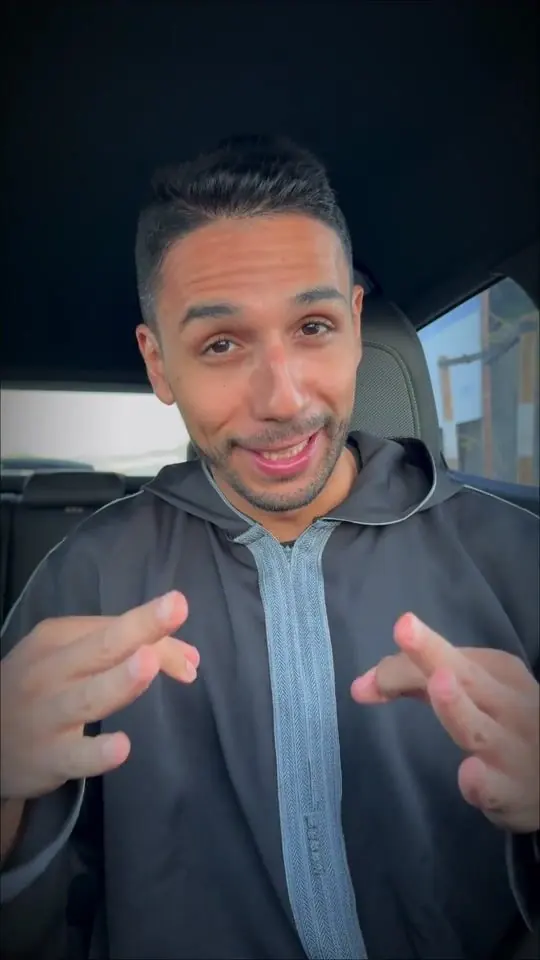
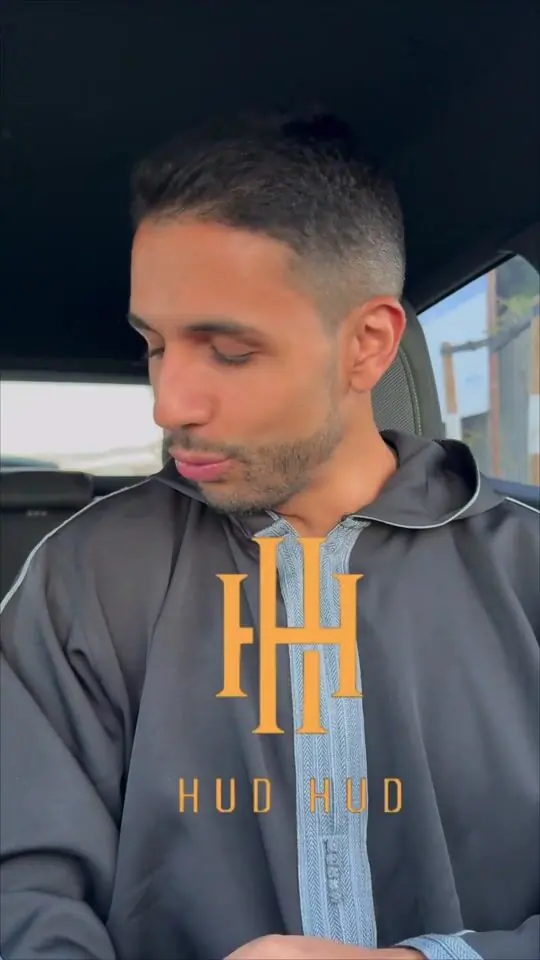
Arabic clothing video (Mohamed, clothing-2): owner-chosen thumbnail frame at 19.2 s

diff --git a/src/content/posterFrames.js b/src/content/posterFrames.js
@@ -28,7 +28,7 @@ export const POSTER_FRAMES = {
   '0241249ccf242630f097d03ac8cc11b9': 14.5, // portfolio:ar-ugc-7 [ar]
   '002d9dab913f13496e6513e4a7761ec9': 35.9, // portfolio:ar-ugc-8 [ar] // owner-chosen frame 2026-11-25 (Videos Placement folder screenshot)
   '583c9f5132d0cfe0f2eb26ea1df73446': 7.0, // portfolio:ar-ugc-9 [ar] // owner-chosen frame 2026-11-25 (Videos Placement folder screenshot)
-  '573acd81f098fb29bf4145d3dd1463a4': 2.6, // portfolio:ar-mohamed-clothing-2 [ar]: face centred, eyes open, no caption in the way
+  '573acd81f098fb29bf4145d3dd1463a4': 19.2, // portfolio:ar-mohamed-clothing-2 [ar]; owner-chosen frame 2026-11-25 (looking down, the clothing brand's logo on screen)
   'ed635c7d6db2d44efda5fc73454acfa3': 9.0, // portfolio:ar-mohamed-bottle [ar]: face centred, eyes open, no caption in the way
   '0cf5d2139e0769332c053ac71984ca14': 0.5, // portfolio:ar-ugc-10 [ar] // owner-chosen frame 2026-11-25 (Videos Placement folder screenshot)
   '7359123313ee51b95976e3ae6adc331e': 10.4, // portfolio:en-milad-saas-1; owner-chosen frame 2026-11-25 (SOLUTION)

diff --git a/docs/multilingual-arabic.md b/docs/multilingual-arabic.md
@@ -176,7 +176,7 @@ The Spokesperson, SaaS and Organic pages have **no carousel** (all their videos 
 
 **UGC carousel (11 cards; the Arabic cap is 11, English stays 10)**: positions 1 to 4 = `ar-ugc-5` (chocolate), `ar-mohamed-clothing-2` (new, `2.mp4`), `ar-ugc-2` (tea), `ar-mohamed-bottle` (new, `4.mp4`); then the seven carousel-only videos (`carouselOnly: true`: not in the Creator Showcase): `ar-ugc-7`, `ar-oneroyal-3`, `ar-ugc-9`, `ar-oneroyal-1`, `ar-ugc-3`, `ar-ugc-10` (English captions, shown as «الإنجليزية»), `ar-ugc-4`.
 
-**New videos**: `2.mp4` (clothing, in a car; a clothing brand's logo appears on screen) and `4.mp4` (a water bottle). Re-encoded from 4K to 1080 p and uploaded to Cloudflare Stream as `AR-MOHAMED-04` (`573acd81…`) and `AR-MOHAMED-05` (`ed635c7d…`). They are filed under the creator id `ar-mohamed` (same person and same room as the existing Mohamed videos), but **no name is shown** because the folder does not say who presents: the owner should confirm. Poster frames 2.6 s and 9.0 s (no screenshot was supplied for them).
+**New videos**: `2.mp4` (clothing, in a car; a clothing brand's logo appears on screen) and `4.mp4` (a water bottle). Re-encoded from 4K to 1080 p and uploaded to Cloudflare Stream as `AR-MOHAMED-04` (`573acd81…`) and `AR-MOHAMED-05` (`ed635c7d…`). They are filed under the creator id `ar-mohamed` (same person and same room as the existing Mohamed videos), but **no name is shown** because the folder does not say who presents: the owner should confirm. Poster frames: 19.2 s for the clothing video (owner-chosen from a screenshot, 2026-11-25) and 9.0 s for the bottle video (no screenshot was supplied).
 
 **Removed**: `ar-ugc-hero-3` ("To remove from all website"). `ar-ugc-11` (IMG_4545, CRM) and `ar-ugc-12` (IMG_7827, apartment walkthrough) moved to the **English** site: new entries `en-milad-saas-1` (English SaaS carousel + English Creator Showcase) and `en-milad-spokesperson-1` (English Spokesperson carousel + English Creator Showcase), creator id `cv-en-c03`, appended to the English display order without moving any other English video.
 

diff --git a/docs/video-thumbnails.md b/docs/video-thumbnails.md
@@ -128,5 +128,5 @@ Not changed: the Roadmap explainer keeps its deliberately chosen 25.6 s frame; t
 | `fc89d8e3…` | 11s | portfolio:creator-11 |
 | `ff256a46…` | 9.9s | portfolio:ugc-gal-2 |
 | `fff13512…` | 7.6s | portfolio:es-spokesperson-1 [es] |
-| `573acd81…` | 2.6s | portfolio:ar-mohamed-clothing-2 [ar] |
+| `573acd81…` | 19.2s | portfolio:ar-mohamed-clothing-2 [ar] |
 | `ed635c7d…` | 9s | portfolio:ar-mohamed-bottle [ar] |
